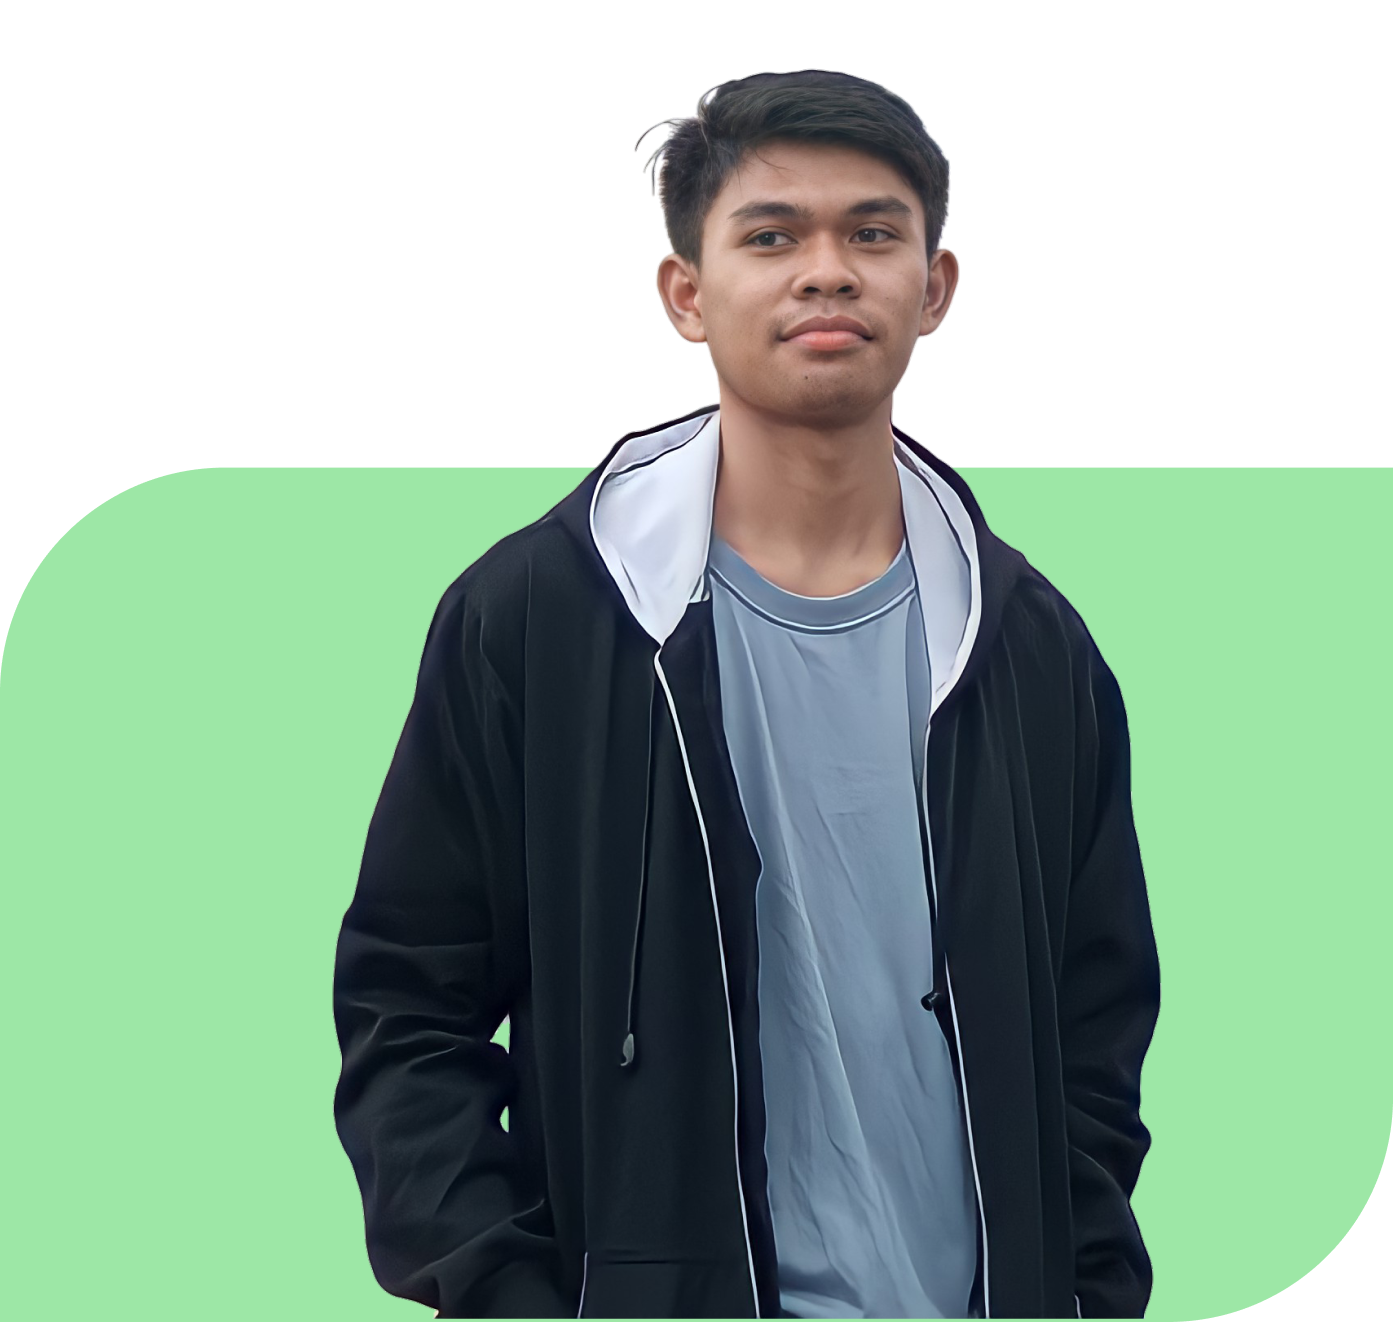
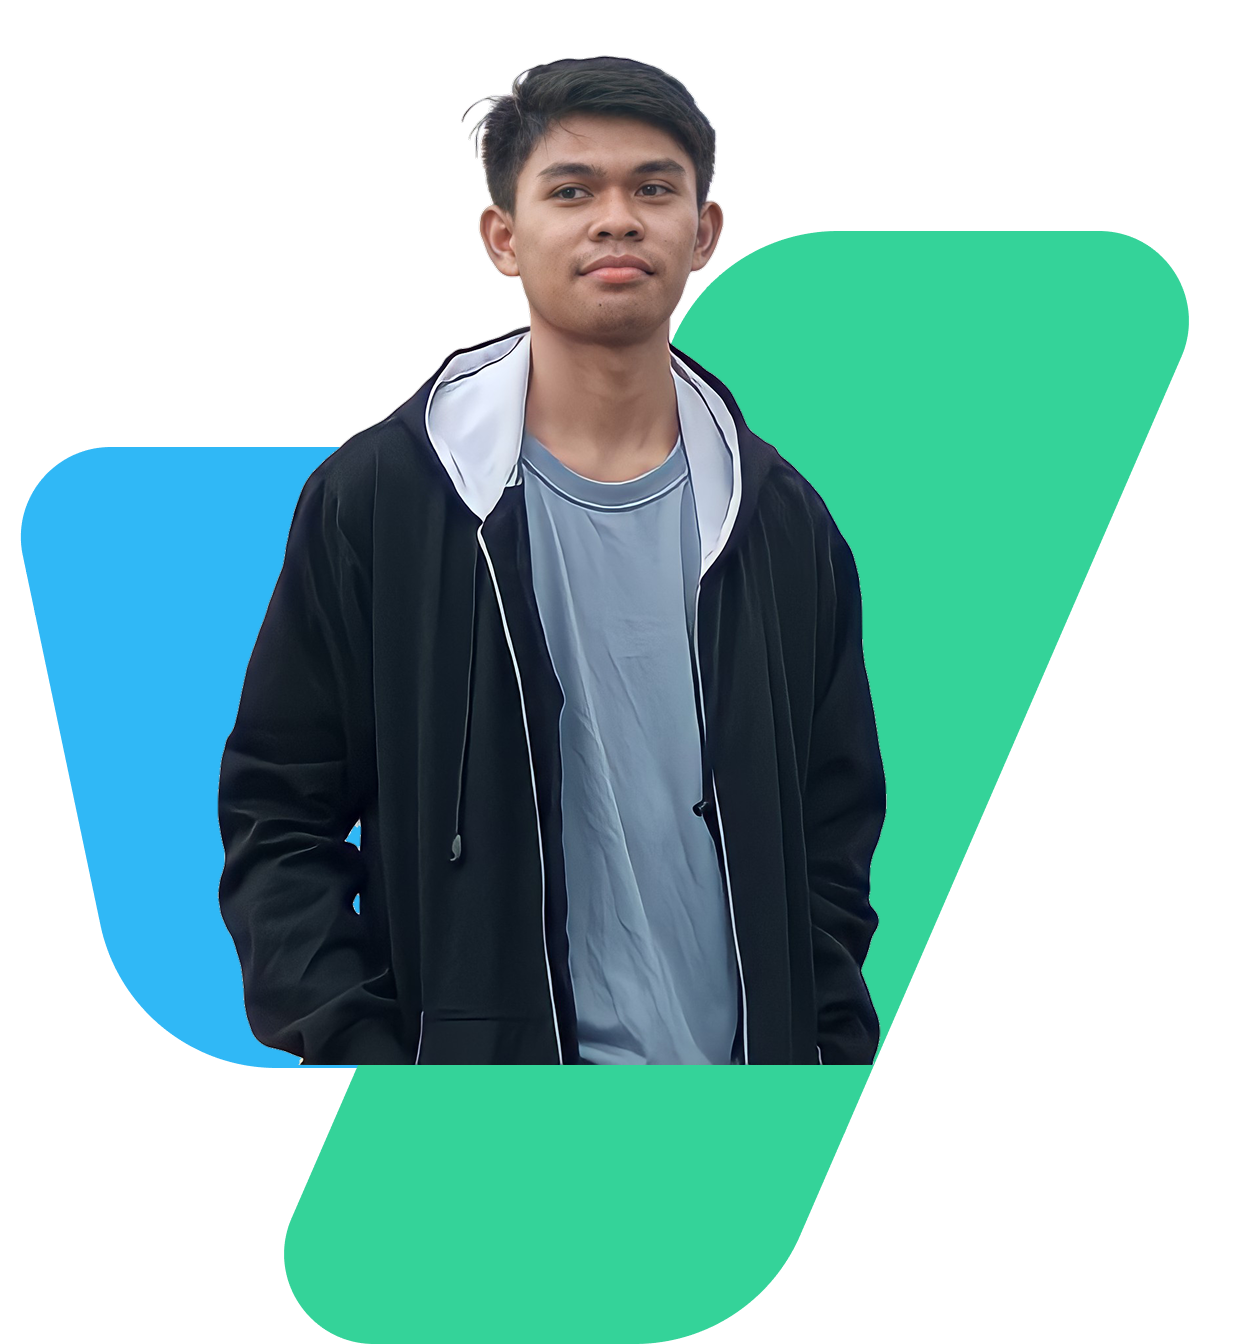
feat: dark theme friendly home page

diff --git a/src/app/page.tsx b/src/app/page.tsx
@@ -18,6 +18,17 @@ import {
 import type { ReactElement } from "react";
 import NavBar from "@/components/navbar";
 import { Badge } from "@/components/ui/badge";
+import { buttonVariants } from "@/components/ui/button";
+import { cn } from "@/lib/utils";
+import {
+  Card,
+  CardAction,
+  CardContent,
+  CardDescription,
+  CardFooter,
+  CardHeader,
+  CardTitle,
+} from "@/components/ui/card";
 
 interface Tools {
   alt: string;
@@ -91,29 +102,31 @@ export default async function Home() {
       <NavBar />
 
       {/* Hero Section */}
-      <div id="home" className="bg-hprimary-dark grid min-h-screen px-4 py-16">
+      <div id="home" className="bg-sidebar grid min-h-screen px-4 py-16">
         <div className="mx-auto flex max-w-5xl flex-col-reverse items-center gap-8 md:flex-row">
           <div className="flex flex-[3] flex-col gap-4">
-            <h1 className="text-4xl font-bold text-white">
-              <span className="text-hprimary-light">Congratulation!</span> 🙌,
-              you have come to the right place!
+            <h1 className="text-4xl font-bold">
+              <span className="text-primary">Congratulation!</span> 🙌, you have
+              come to the right place!
             </h1>
-            <span className="mb-5 text-lg text-white">
+            <span className="mb-5 text-lg">
               Hello, my name is
               <span className="font-bold"> Anjar Dwi Hariadi</span>.
               {me?.greeting}
             </span>
-            <Link href={"#contact"}>
-              <button className="bg-hprimary hover:bg-hprimary-light w-full rounded-lg px-6 py-4 text-white transition-colors hover:text-black md:w-auto">
-                Get Started
-              </button>
+            <Link
+              href={"#contact"}
+              className={cn(buttonVariants({ size: "lg" }), "w-fit")}
+            >
+              Get Started
+              <MoveRight />
             </Link>
             <div className="mt-4 flex gap-6">
               {myAccount.map((account, index) => (
                 <Link
                   href={account.href}
                   key={index}
-                  className="hover:text-hprimary text-white transition-colors"
+                  className="hover:text-secondary/50 text-secondary transition-colors"
                 >
                   {account.icon}
                 </Link>
@@ -122,7 +135,7 @@ export default async function Home() {
           </div>
 
           <div className="flex-[2]">
-            <div className="bg-hprimary-light absolute mx-8 my-4 rounded-t-full rounded-l-full p-3">
+            <div className="bg-primary absolute mx-8 my-4 rounded-t-full rounded-l-full p-3">
               <span className="text-5xl">{me?.mood}</span>
             </div>
             <Image
@@ -136,15 +149,16 @@ export default async function Home() {
       </div>
 
       {/* New Info Banner */}
-      <div className="bg-red-50 px-5 py-8">
+      <div className="bg-destructive/10 px-5 py-8">
         <div className="mx-auto flex max-w-5xl items-center justify-center gap-5">
           <span>
-            <b className="text-red-500">NEW:</b> Now I am on Youtube
+            <b className="text-destructive">NEW:</b> Now I am on Youtube
           </span>
-          <Link href={"https://www.youtube.com/@an.alphaleonis"}>
-            <button className="flex w-full items-center gap-2 rounded-md bg-red-500 px-4 py-2 text-white transition-colors hover:bg-red-600 md:w-auto">
-              <Youtube /> Visit My Channel
-            </button>
+          <Link
+            href={"https://www.youtube.com/@an.alphaleonis"}
+            className={buttonVariants({ size: "lg", variant: "destructive" })}
+          >
+            <Youtube /> Visit My Channel
           </Link>
         </div>
       </div>
@@ -162,12 +176,17 @@ export default async function Home() {
             />
           </div>
           <div className="flex flex-[3] flex-col gap-2">
-            <span className="text-hprimary text-lg font-bold">About Me</span>
+            <span className="text-primary text-lg font-bold">About Me</span>
             <h1 className="text-4xl font-bold">{me?.descTitle}</h1>
-            <p className="mb-3 text-slate-700">{me?.descContent}</p>
+            <p className="text-muted-foreground mb-3">{me?.descContent}</p>
             <Link
               href={`${me?.resume}`}
-              className="hover:text-hprimary flex items-center gap-2 text-lg font-bold transition-colors"
+              target="_blank"
+              rel="noopener noreferrer"
+              className={cn(
+                buttonVariants({ size: "lg", variant: "link" }),
+                "w-fit",
+              )}
             >
               <Download />
               Resume
@@ -196,17 +215,17 @@ export default async function Home() {
       </div>
 
       {/* Experience */}
-      <div id="experience" className="bg-slate-950 px-5 py-8">
+      <div id="experience" className="bg-sidebar px-5 py-8">
         <div className="mx-auto flex max-w-2xl flex-col items-center gap-5">
-          <span className="text-hprimary text-lg font-bold">Experience</span>
+          <span className="text-primary text-lg font-bold">Experience</span>
           {experiences.map((experience, index) => (
             <div
               key={index}
-              className="w-full rounded-xl bg-slate-900 px-5 py-3 text-white"
+              className="bg-background w-full rounded-xl px-5 py-3"
             >
               <h2 className="mb-2 font-bold">{experience.company}</h2>
               <h4 className="mb-2">{experience.title}</h4>
-              <span className="text-sm font-light text-slate-500">
+              <span className="text-muted-foreground text-sm font-light">
                 {experience.period}
               </span>
             </div>
@@ -215,53 +234,61 @@ export default async function Home() {
       </div>
 
       {/* My portfolio */}
-      <div id="portfolio" className="bg-hprimary-xlight px-5 py-8">
+      <div id="portfolio" className="bg-sidebar px-5 py-8">
         <div className="mx-auto flex max-w-5xl flex-col items-center gap-5">
-          <span className="text-hprimary text-lg font-bold">Portfolio</span>
+          <span className="text-primary text-lg font-bold">Portfolio</span>
           <h1 className="text-4xl font-bold">
             Enjoying every process and here’s the results
           </h1>
-          <div className="flex flex-wrap justify-center gap-3">
+          <div className="grid grid-cols-[repeat(auto-fill,minmax(384px,1fr))] gap-3 py-2">
             {portfolios.map((portfolio) => (
-              <div
+              <Card
                 key={portfolio.id}
-                className="hover:border-hprimary rounded-xl border-2 bg-white p-3 shadow-lg transition-all hover:shadow-2xl md:w-[48%]"
+                className="hover:border-primary transition-all hover:shadow-2xl"
               >
-                <Image
-                  alt={portfolio.title}
-                  src={portfolio.image ?? "/no-image.webp"}
-                  width={1200}
-                  height={800}
-                  className="aspect-video rounded-lg object-cover"
-                ></Image>
-                <h3 className="mt-4 font-bold">{portfolio.title}</h3>
-                <div className="my-2 flex flex-wrap gap-2">
-                  {portfolio.tag?.map((tag, index) => (
-                    <Badge key={index}>{tag}</Badge>
+                <CardHeader>
+                  <Image
+                    src={portfolio.image ?? "/no-image.webp"}
+                    alt={portfolio.title}
+                    width={200}
+                    height={200}
+                    className="aspect-video w-full rounded-md object-cover"
+                  />
+                  <CardTitle>{portfolio.title}</CardTitle>
+                  {portfolio.tag.map((tag, index) => (
+                    <Badge key={index} variant="secondary">
+                      {tag}
+                    </Badge>
                   ))}
-                </div>
-                <span className="my-4 text-slate-700">
-                  {portfolio.description}
-                </span>
-                <div className="my-5 flex gap-4">
-                  {portfolio.url && (
-                    <Link
-                      href={portfolio.url}
-                      className="hover:text-hprimary flex items-center gap-1 transition-all hover:underline"
-                    >
-                      <MoveRight /> Try It
-                    </Link>
-                  )}
-                  {portfolio.githubUrl && (
-                    <Link
-                      href={portfolio.githubUrl}
-                      className="hover:text-hprimary flex items-center gap-1 transition-all hover:underline"
-                    >
-                      <Github /> Github
-                    </Link>
-                  )}
-                </div>
-              </div>
+                </CardHeader>
+                <CardContent>
+                  <CardDescription>{portfolio.description}</CardDescription>
+                </CardContent>
+                <CardFooter className="gap-2">
+                  <Link
+                    href={portfolio.url ?? "#"}
+                    target="_blank"
+                    rel="noopener noreferrer"
+                    className={buttonVariants({
+                      size: "sm",
+                      variant: "outline",
+                    })}
+                  >
+                    <MoveRight /> Try It
+                  </Link>
+                  <Link
+                    href={portfolio.githubUrl ?? "#"}
+                    target="_blank"
+                    rel="noopener noreferrer"
+                    className={buttonVariants({
+                      size: "sm",
+                      variant: "outline",
+                    })}
+                  >
+                    <Github /> Github
+                  </Link>
+                </CardFooter>
+              </Card>
             ))}
           </div>
         </div>
@@ -269,18 +296,22 @@ export default async function Home() {
 
       {/* Contact Me */}
       <div id="contact" className="px-5 py-8">
-        <div className="bg-hprimary-dark mx-auto flex max-w-5xl flex-col gap-3 rounded-xl p-4">
-          <h3 className="text-hprimary-light text-lg font-bold">Contact me</h3>
+        <div className="bg-chart-5 mx-auto flex max-w-5xl flex-col gap-3 rounded-xl p-4">
+          <h3 className="text-primary text-lg font-bold">Contact me</h3>
           <h1 className="text-2xl font-bold text-white">
             Ready to get started?
           </h1>
           <p className="text-white">
             Feel free to contact me, let’s discuss about your vision!
           </p>
-          <Link href={`mailto:${me?.email}`} className="ml-auto">
-            <button className="flex w-full items-center gap-2 rounded-md bg-white px-3 py-2 md:w-auto">
-              Send Me an Email <Send />
-            </button>
+          <Link
+            href={`mailto:${me?.email}`}
+            className={cn(
+              buttonVariants({ size: "lg", variant: "secondary" }),
+              "bg-primary ml-auto text-white",
+            )}
+          >
+            Send Me an Email <Send />
           </Link>
         </div>
       </div>

diff --git a/src/components/navbar.tsx b/src/components/navbar.tsx
@@ -3,6 +3,8 @@
 import React, { useState, type Key } from "react";
 import Link from "next/link";
 import { Menu } from "lucide-react";
+import { buttonVariants } from "./ui/button";
+import { ModeToggle } from "./mode-toggle";
 
 interface MenuItem {
   id: Key;
@@ -45,13 +47,13 @@ const NavBar = () => {
   }
 
   return (
-    <div className="sticky top-0 z-50 border-b bg-white px-5 py-3">
+    <div className="bg-background sticky top-0 z-50 px-5 py-3">
       <div className="mx-auto flex max-w-5xl items-center justify-between gap-4">
         <Link href={"#"}>
-          <h1 className="text-hprimary text-2xl font-bold">Anjar.Hariadi</h1>
+          <h1 className="text-primary text-2xl font-bold">Anjar.Hariadi</h1>
         </Link>
         <div
-          className={`fixed flex h-screen w-[70%] flex-col items-center justify-center gap-4 bg-white p-4 shadow-md lg:static lg:h-fit lg:w-max lg:flex-row lg:shadow-none ${
+          className={`bg-background fixed flex h-screen w-[70%] flex-col items-center justify-center gap-4 p-4 shadow-md lg:static lg:h-fit lg:w-max lg:flex-row lg:shadow-none ${
             showDrawer ? "left-0" : "left-[-100%]"
           } top-0 transition-all`}
         >
@@ -64,12 +66,10 @@ const NavBar = () => {
               </li>
             ))}
           </ul>
-          <Link
-            href={"#contact"}
-            className="bg-hprimary hover:bg-hprimary-dark rounded-md p-3 text-white transition-colors"
-          >
+          <Link href={"#contact"} className={buttonVariants()}>
             Contact Me
           </Link>
+          <ModeToggle />
         </div>
         <button className="block p-3 lg:hidden" onClick={drawerButtonClick}>
           <Menu />

diff --git a/src/styles/globals.css b/src/styles/globals.css
@@ -7,11 +7,6 @@
   --font-sans:
     var(--font-geist-sans), ui-sans-serif, system-ui, sans-serif,
     "Apple Color Emoji", "Segoe UI Emoji", "Segoe UI Symbol", "Noto Color Emoji";
-
-  --color-hprimary: #3ccf4e;
-  --color-hprimary-dark: #003600;
-  --color-hprimary-light: #9de7a6;
-  --color-hprimary-xlight: #ebfaed;
 }
 
 :root {
@@ -23,8 +18,8 @@
   --popover-foreground: oklch(0.3729 0.0306 259.7328);
   --primary: oklch(0.7227 0.192 149.5793);
   --primary-foreground: oklch(1 0 0);
-  --secondary: oklch(0.9514 0.025 236.8242);
-  --secondary-foreground: oklch(0.4461 0.0263 256.8018);
+  --secondary: oklch(73.953% 0.14219 234.066);
+  --secondary-foreground: oklch(1 0 0);
   --muted: oklch(0.967 0.0029 264.5419);
   --muted-foreground: oklch(0.551 0.0234 264.3637);
   --accent: oklch(0.9505 0.0507 163.0508);
@@ -77,8 +72,8 @@
   --popover-foreground: oklch(0.8717 0.0093 258.3382);
   --primary: oklch(0.7729 0.1535 163.2231);
   --primary-foreground: oklch(0.2077 0.0398 265.7549);
-  --secondary: oklch(0.3351 0.0331 260.912);
-  --secondary-foreground: oklch(0.7118 0.0129 286.0665);
+  --secondary: oklch(73.953% 0.14219 234.066);
+  --secondary-foreground: oklch(0.9219 0 0);
   --muted: oklch(0.2795 0.0368 260.031);
   --muted-foreground: oklch(0.551 0.0234 264.3637);
   --accent: oklch(0.3729 0.0306 259.7328);

diff --git a/src/app/layout.tsx b/src/app/layout.tsx
@@ -1,7 +1,7 @@
 import "@/styles/globals.css";
 
 import { type Metadata } from "next";
-import { Geist } from "next/font/google";
+import { Geist, Sora } from "next/font/google";
 
 import { TRPCReactProvider } from "@/trpc/react";
 import { Toaster } from "@/components/ui/sonner";
@@ -13,10 +13,7 @@ export const metadata: Metadata = {
   icons: [{ rel: "icon", url: "/favicon.ico" }],
 };
 
-const geist = Geist({
-  subsets: ["latin"],
-  variable: "--font-geist-sans",
-});
+const sora = Sora({ subsets: ["latin"] });
 
 export default function RootLayout({
   children,
@@ -24,13 +21,13 @@ export default function RootLayout({
   return (
     <html
       lang="en"
-      className={`${geist.variable} scroll-smooth`}
+      className={`${sora.className} scroll-smooth`}
       suppressHydrationWarning
     >
       <body>
         <ThemeProvider
           attribute="class"
-          defaultTheme="system"
+          defaultTheme="dark"
           enableSystem
           disableTransitionOnChange
         >
